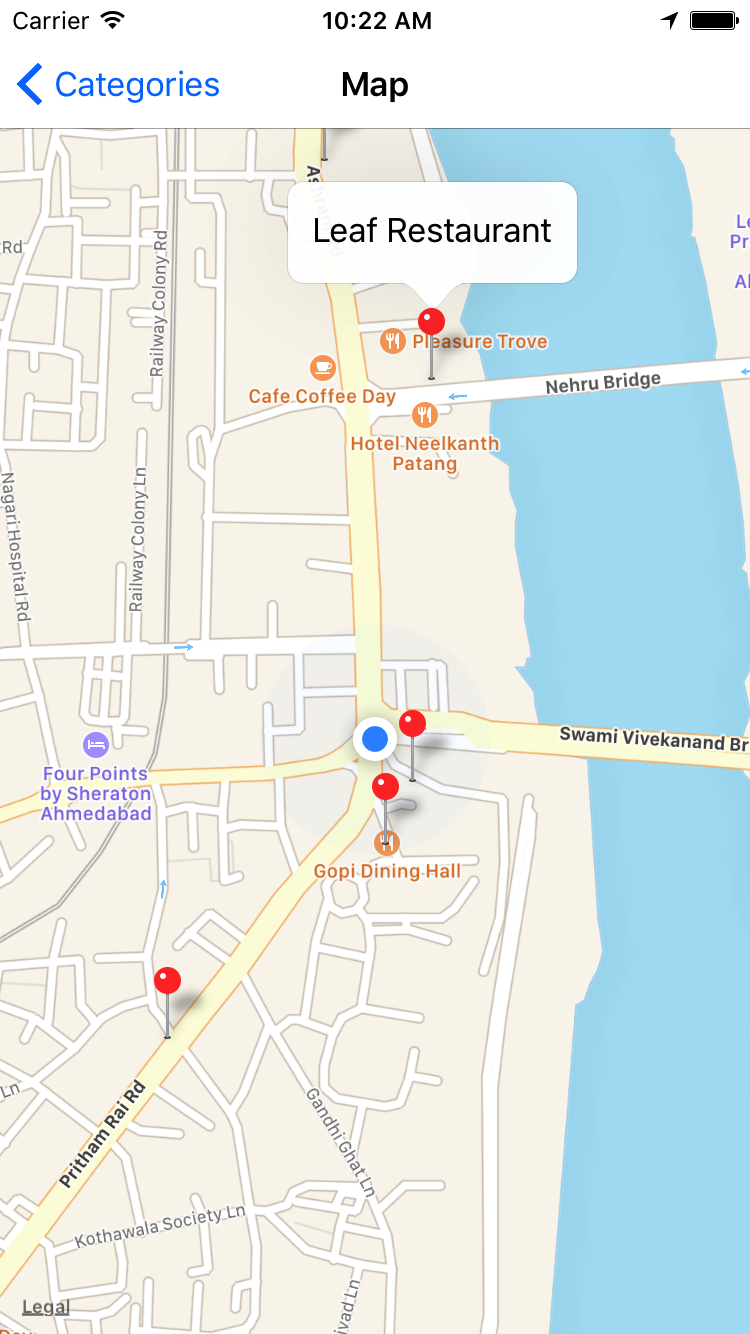
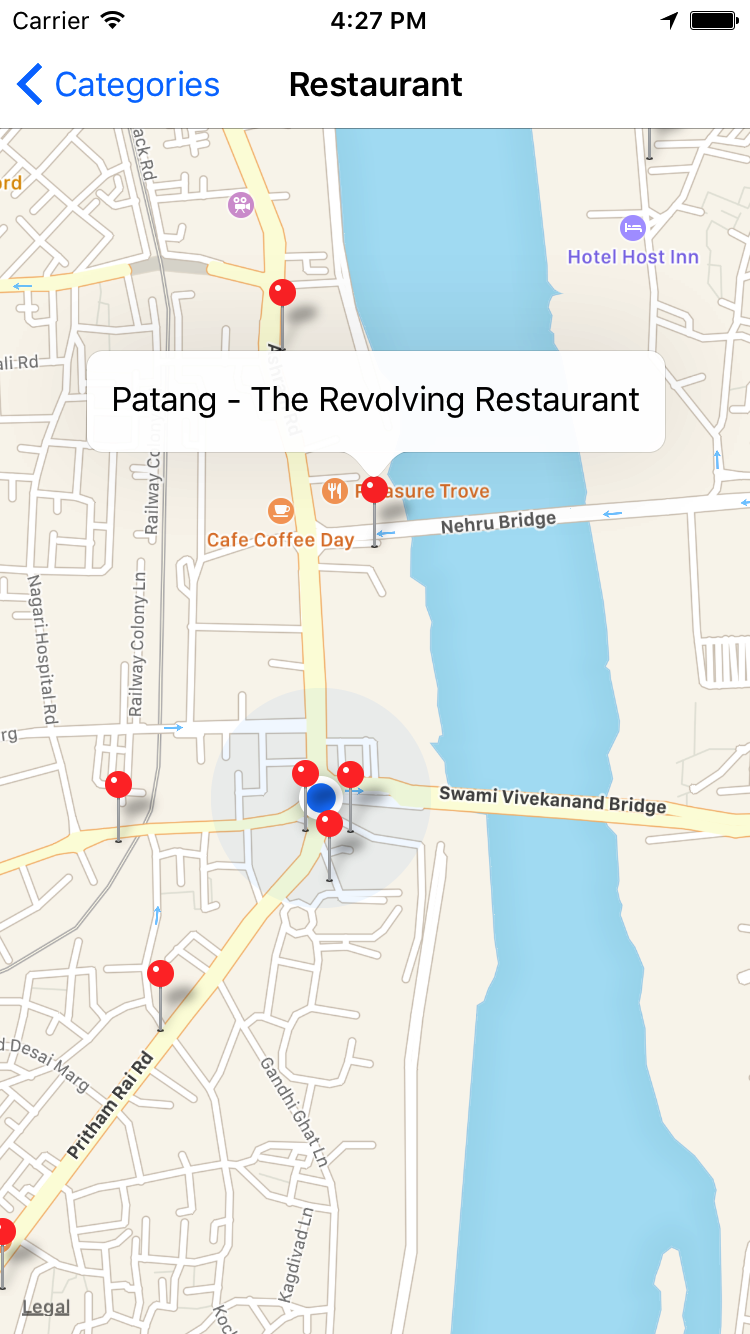
Change in title.

diff --git a/NearBy/Controllers/MapVC.swift b/NearBy/Controllers/MapVC.swift
@@ -27,7 +27,7 @@ class MapVC: UIViewController, MKMapViewDelegate ,CLLocationManagerDelegate {
 
     override func viewDidLoad() {
         super.viewDidLoad()
-
+        self.title = strCategory
         self.locationManager = CLLocationManager()
         self.mapviews.delegate = self
         self.mapviews.showsUserLocation = true
@@ -43,7 +43,7 @@ class MapVC: UIViewController, MKMapViewDelegate ,CLLocationManagerDelegate {
         if CLLocationManager.locationServicesEnabled() {
             locationManager.delegate = self
             locationManager.desiredAccuracy = kCLLocationAccuracyBest
-            locationManager.requestAlwaysAuthorization()
+            //locationManager.requestAlwaysAuthorization()
             locationManager.requestWhenInUseAuthorization()
         }
         locationManager.startUpdatingHeading()
@@ -59,8 +59,8 @@ class MapVC: UIViewController, MKMapViewDelegate ,CLLocationManagerDelegate {
                          didUpdateLocations locations: [CLLocation]) {
         
         locValue = manager.location!.coordinate
-        let region = MKCoordinateRegion(center: locValue, span: MKCoordinateSpan(latitudeDelta: 0.01, longitudeDelta: 0.01))
-                self.mapviews.setRegion(region, animated: true)
+//        let region = MKCoordinateRegion(center: locValue, span: MKCoordinateSpan(latitudeDelta: 0.01, longitudeDelta: 0.01))
+//                self.mapviews.setRegion(region, animated: true)
         self.userCoordinate = CLLocationCoordinate2DMake(locValue.latitude, locValue.longitude)
         self.locationManager.stopUpdatingLocation()
         self.startSearch(strCategory)
